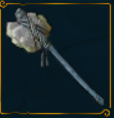
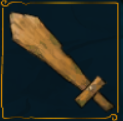
added inventory images

diff --git a/src/lolz/GUI/GameGUI.java b/src/lolz/GUI/GameGUI.java
@@ -64,16 +64,16 @@ public class GameGUI extends JPanel {
         }
         item = new Item[7][5];
         for (int i = 0; i <= 4; i++) {
-            item[0][i] = new Item(0, 0, 0, 0, 0, 0, 0);
-            item[1][i] = new Item(0, 0, 0, 0, 0, 1, 0);
+            item[0][i] = new Item(0, 0, 0, 0, 0, 0, i);
+            item[1][i] = new Item(0, 0, 0, 0, 0, 1, i);
             item[2][i] = new Item(0, 0, 0, 0, 0, 2, i);
-            item[3][i] = new Item(0, 0, 0, 0, 0, 3, 0);
-            item[4][i] = new Item(0, 0, 0, 0, 0, 4, 0);
-            item[5][i] = new Item(0, 0, 0, 0, 0, 5, 0);
-            item[6][i] = new Item(0, 0, 0, 0, 0, 6, 0);
+            item[3][i] = new Item(0, 0, 0, 0, 0, 3, i);
+            item[4][i] = new Item(0, 0, 0, 0, 0, 4, i);
+            item[5][i] = new Item(0, 0, 0, 0, 0, 5, i);
+            item[6][i] = new Item(0, 0, 0, 0, 0, 6, i);
         }
-        this.map.player.equipment = new Item[]{item[0][0],item[1][0],item[2][1],item[3][0],item[4][0],item[5][0],item[6][0],null,item[2][3],null,item[2][4]};
-
+        this.map.player.equipment = new Item[]{item[0][0], item[1][0], item[2][0], item[3][0], item[4][0], item[5][0], item[6][0], null, null, null, null};
+        testGeneratedRandomItemSet();
 
         this.addMouseListener(new MouseListener() {
             @Override
@@ -126,10 +126,11 @@ public class GameGUI extends JPanel {
                             for (int i = 0; i < 4; i++) {
                                 if (map.player.equipment[7 + i] == null) {
                                     map.player.equipment[7 + i] = map.player.equipment[aktInventar - 1];
+                                    map.player.equipment[aktInventar - 1] = item[aktInventar - 1][0];
                                     break;
                                 }
                             }
-                            map.player.equipment[aktInventar - 1] = item[aktInventar - 1][0];
+
                         } else {
                             Item hilf = map.player.equipment[aktInventar - 1];
                             if (map.player.equipment[hilf.typ] == item[hilf.typ][0]) {
@@ -378,5 +379,12 @@ public class GameGUI extends JPanel {
 
     public boolean isCourserInRectangle(double x1, double x2, double y1, double y2) {
         return (MouseInfo.getPointerInfo().getLocation().getX() - frameLocation.getX() <= x2 && MouseInfo.getPointerInfo().getLocation().getX() - frameLocation.getX() >= x1 && MouseInfo.getPointerInfo().getLocation().getY() - frameLocation.getY() <= y2 && MouseInfo.getPointerInfo().getLocation().getY() - frameLocation.getY() >= y1);
+    }
+    public void testGeneratedRandomItemSet(){
+        for(int i = 0; i<= 6; i++){
+            this.map.player.equipment[i] = item[i][(int)(Math.random()*5)];
+        }
+        this.map.player.equipment[7] = item[(int) (Math.random()*7)][(int) (Math.random()*4)+1];
+        this.map.player.equipment[8] = item[(int) (Math.random()*7)][(int) (Math.random()*4)+1];
     }
 }

diff --git a/src/lolz/Entity/Player.java b/src/lolz/Entity/Player.java
@@ -60,37 +60,6 @@ public class Player extends Entity {
         // this.x -= this.width;
         this.y -= this.height;
 
-        // setup player inventory
-        /*
-        inventoryImages = new Image[7][5];
-        try {
-            inventoryImages[0][0] = ImageIO.read(new File("res/inventory/hutPlatz.png"));
-            inventoryImages[1][0] = ImageIO.read(new File("res/inventory/ruestungPlatz.png"));
-            inventoryImages[2][0] = ImageIO.read(new File("res/inventory/schwertPlatz.png"));
-            inventoryImages[3][0] = ImageIO.read(new File("res/inventory/schuhePlatz.png"));
-            inventoryImages[4][0] = ImageIO.read(new File("res/inventory/kettePlatz.png"));
-            inventoryImages[5][0] = ImageIO.read(new File("res/inventory/ringPlatz.png"));
-            inventoryImages[6][0] = ImageIO.read(new File("res/inventory/guertelPlatz.png"));
-            empty = ImageIO.read(new File("res/inventory/freiPlatz.png"));
-
-            for (int i = 1; i <= 4; i++) {
-                //inventoryImages[0][i] = ImageIO.read(new File("res/inventory/hut"+i+".png"));
-                //inventoryImages[1][i] = ImageIO.read(new File("res/inventory/ruestung"+i+".png"));
-                inventoryImages[2][i] = ImageIO.read(new File("res/inventory/schwert" + i + ".png"));
-                //inventoryImages[3][i] = ImageIO.read(new File("res/inventory/schuhe"+i+".png"));
-                //inventoryImages[4][i] = ImageIO.read(new File("res/inventory/kette"+i+".png"));
-                //inventoryImages[5][i] = ImageIO.read(new File("res/inventory/ring"+i+".png"));
-                //inventoryImages[6][i] = ImageIO.read(new File("res/inventory/guertel"+i+".png"));
-            }
-
-        } catch (Exception e) {
-            System.out.println("Fehler");
-        }
-        if(inventoryImages[2][1]==null){
-            System.out.println(1);
-        }
-
-         */
     }
 
     // set Getters and Setters for attribute hit

diff --git a/doc/dokumentation.tex b/doc/dokumentation.tex
@@ -330,7 +330,7 @@ Tim erstellte eine Methode zum Testen, ob sich ein gegebenes Monster mit dem Hel
 Tim setzte ein eigenes Icon für das Fenster und versuchte sich daran, den Helden die Möglichkeit zu geben, dem Monster Schaden zufügen zu können, scheiterte aber. \\
 Jonas implementierte einen neuen Helden, der nun auch nach links schauen kann und angreifen kann.\\
 
-\myuline{Dienstag, 01.10.19 (Tim):}
+\myuline{Dienstag, 01.10.19 (Tim, Jonas):}
 
 Lukas verbesserte den Fehler in Tims \glqq{}Angriffscode\grqq{}, sodass der Held Monstern nun Schaden zufügen konnte.\\
 Tim erstellte eine Methode, die zufällig Monster auf der Karte erzeugt und die Anzahl dieser in einer Variable mitzählt. Des Weiteren lässt er die Monster verschwinden, sobald ihre Lebenspunkte 0 sind, sie also tot sind. Tim erweiterte die zufällige Monstererstellung um eine Beeinflussung durch das Spielerlevel, sodas die Monster in ihrer Stärke an die des Spielers angepasst sind. Das Erfahrungssystem ist sonst noch nicht implementiert. \\
@@ -338,6 +338,6 @@ Jonas implementierte ein Inventarsystem. Nun können Items des Helden an und abg
 
 \myuline{Mittwoch, 02.10.19 (Jonas):}
 
-Jonas implementierte das Inventarsystem neu. Die Items sind nun eine eigene Klasse und werden nicht mehr als Integer gespeichert
+Jonas implementierte das Inventarsystem neu. Die Items sind nun eine eigene Klasse und werden nicht mehr als Integer gespeichert. Außerdem wurden die Bilder für die entsprechenden Items aus dem Internet ausgeschnitten und eingefügt.\\
 
 \end{document}
